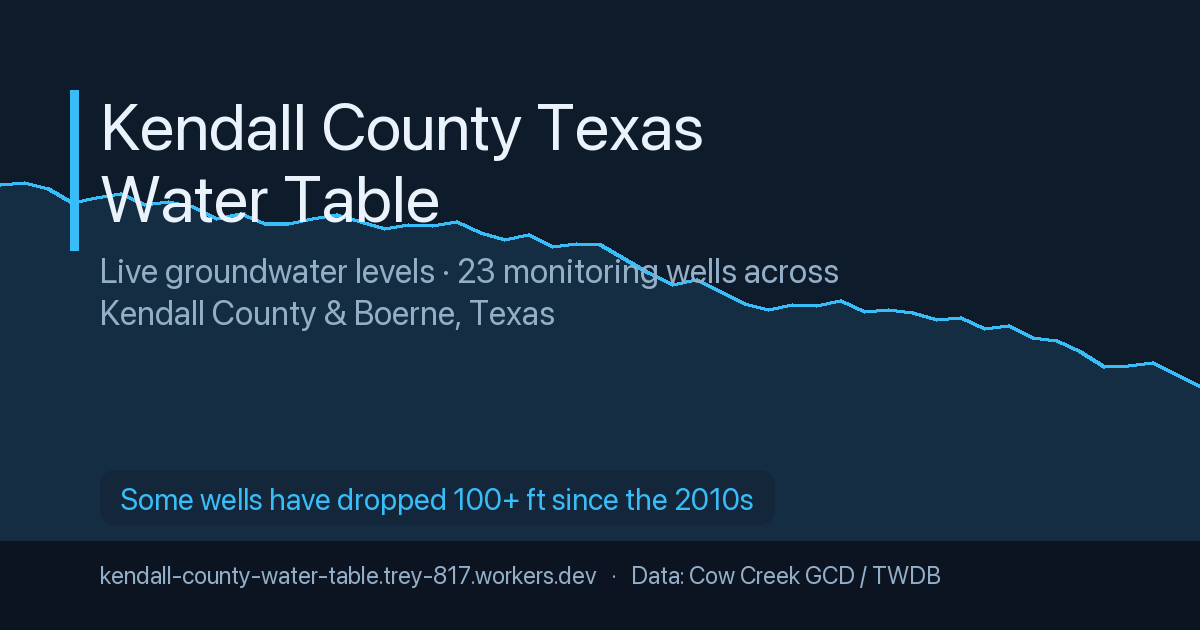
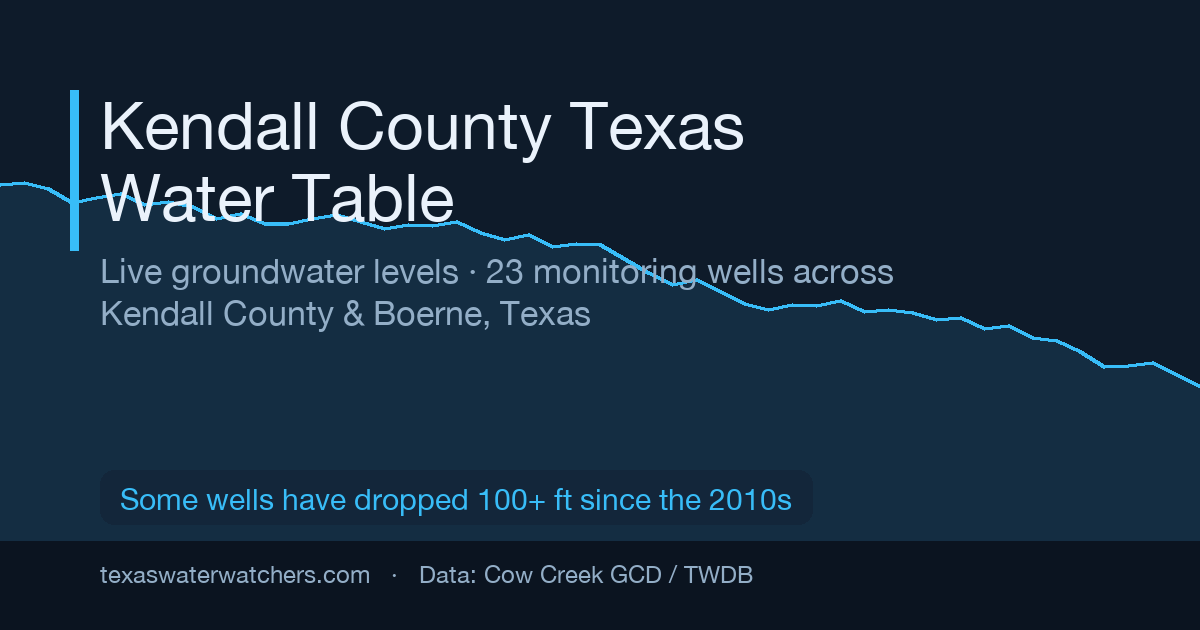
Switch canonical/OG/sitemap/robots URLs to custom domain texaswaterwatchers.com

diff --git a/public/index.html b/public/index.html
@@ -5,7 +5,7 @@
 <meta name="viewport" content="width=device-width, initial-scale=1" />
 <title>Kendall County Water Table — Live Groundwater Levels (Boerne, TX)</title>
 <meta name="description" content="Live depth-to-water for 23 groundwater monitoring wells across Kendall County & Boerne, Texas. Interactive map, per-well history, and trends from official Cow Creek GCD / Texas Water Development Board data, updated daily." />
-<link rel="canonical" href="https://kendall-county-water-table.trey-817.workers.dev/" />
+<link rel="canonical" href="https://www.texaswaterwatchers.com/" />
 <meta name="robots" content="index, follow, max-image-preview:large, max-snippet:-1" />
 <meta name="author" content="Upward Axis Tech" />
 <meta name="theme-color" content="#0e1b2a" />
@@ -18,8 +18,8 @@
 <meta property="og:site_name" content="Kendall County Texas Water Table" />
 <meta property="og:title" content="Kendall County Water Table — Live Groundwater Levels" />
 <meta property="og:description" content="Live depth-to-water for 23 monitoring wells across Kendall County & Boerne, TX. Interactive map + trends from official CCGCD / TWDB data, updated daily." />
-<meta property="og:url" content="https://kendall-county-water-table.trey-817.workers.dev/" />
-<meta property="og:image" content="https://kendall-county-water-table.trey-817.workers.dev/og-image.png" />
+<meta property="og:url" content="https://www.texaswaterwatchers.com/" />
+<meta property="og:image" content="https://www.texaswaterwatchers.com/og-image.png" />
 <meta property="og:image:width" content="1200" />
 <meta property="og:image:height" content="630" />
 <meta property="og:image:alt" content="Kendall County Texas Water Table — live groundwater levels across 23 monitoring wells" />
@@ -28,7 +28,7 @@
 <meta name="twitter:card" content="summary_large_image" />
 <meta name="twitter:title" content="Kendall County Water Table — Live Groundwater Levels" />
 <meta name="twitter:description" content="Live depth-to-water for 23 monitoring wells across Kendall County & Boerne, TX. Interactive map + trends, updated daily." />
-<meta name="twitter:image" content="https://kendall-county-water-table.trey-817.workers.dev/og-image.png" />
+<meta name="twitter:image" content="https://www.texaswaterwatchers.com/og-image.png" />
 <meta name="twitter:image:alt" content="Kendall County Texas Water Table share image" />
 <script type="application/ld+json">
 {
@@ -36,8 +36,8 @@
   "@graph": [
     {
       "@type": "WebSite",
-      "@id": "https://kendall-county-water-table.trey-817.workers.dev/#website",
-      "url": "https://kendall-county-water-table.trey-817.workers.dev/",
+      "@id": "https://www.texaswaterwatchers.com/#website",
+      "url": "https://www.texaswaterwatchers.com/",
       "name": "Kendall County Texas Water Table",
       "description": "Live groundwater levels for 23 monitoring wells across Kendall County & Boerne, Texas.",
       "inLanguage": "en-US",
@@ -53,10 +53,10 @@
     },
     {
       "@type": "Dataset",
-      "@id": "https://kendall-county-water-table.trey-817.workers.dev/#dataset",
+      "@id": "https://www.texaswaterwatchers.com/#dataset",
       "name": "Kendall County Groundwater Levels — Cow Creek GCD monitoring network",
       "description": "Depth-to-water measurements (feet below land surface) for 23 groundwater monitoring wells in the Trinity Aquifer across Kendall County, Texas — including the Boerne, Comfort, Sisterdale, Kendalia and Waring areas. Recorded by the Cow Creek Groundwater Conservation District, hosted by the Texas Water Development Board, and refreshed daily.",
-      "url": "https://kendall-county-water-table.trey-817.workers.dev/",
+      "url": "https://www.texaswaterwatchers.com/",
       "keywords": ["Kendall County water table", "Boerne groundwater levels", "Trinity Aquifer", "depth to water", "well monitoring", "Texas groundwater", "Cow Creek GCD"],
       "isAccessibleForFree": true,
       "creator": { "@type": "GovernmentOrganization", "name": "Cow Creek Groundwater Conservation District", "url": "https://ccgcd.org" },

diff --git a/README.md b/README.md
@@ -3,7 +3,7 @@
 A live, shareable groundwater tracker for the Boerne / Kendall County, Texas area,
 built on Texas Water Development Board (TWDB) monitoring well **#6811417**.
 
-**Live site:** https://kendall-county-water-table.trey-817.workers.dev
+**Live site:** https://www.texaswaterwatchers.com
 
 ## What it shows
 